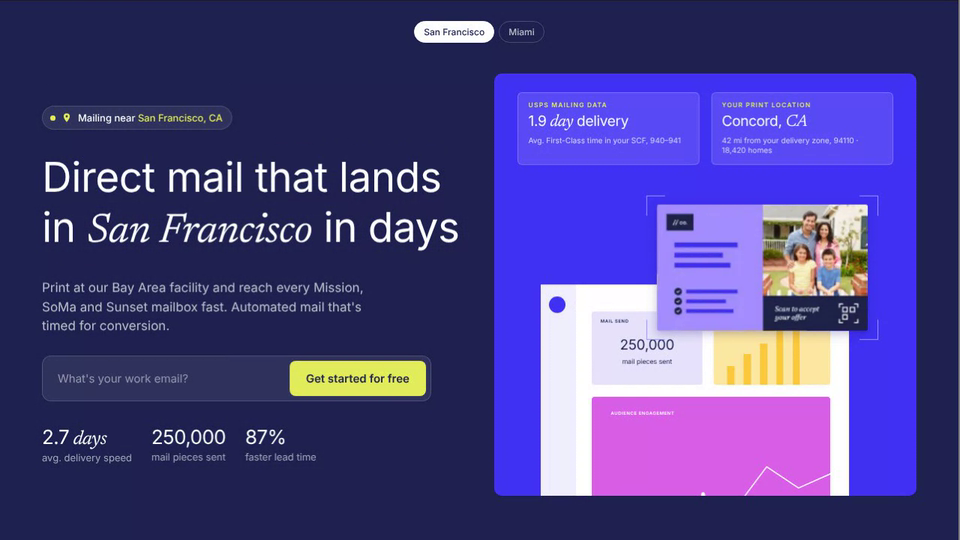
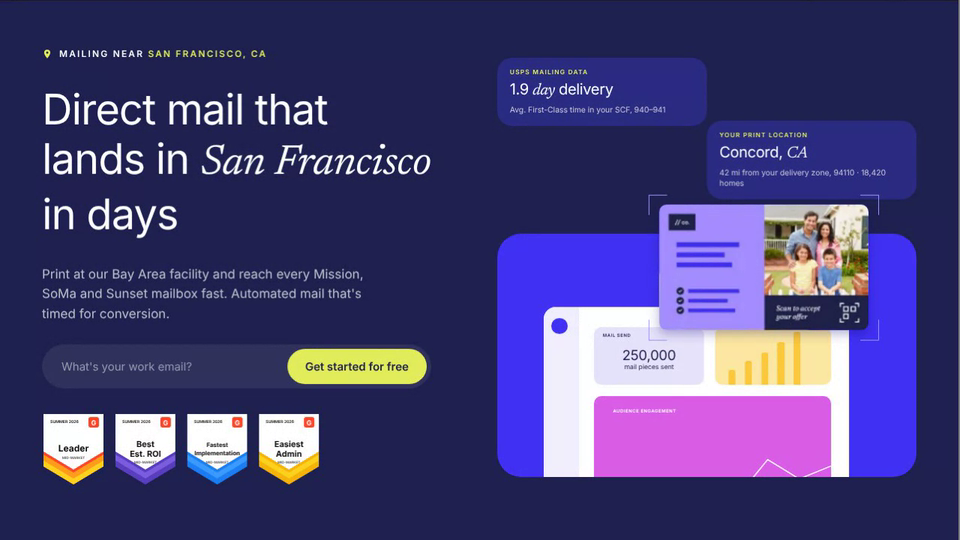
Location Hero: rounder, offset blurbs, shorter purple box, G2 badges, 3 line title, switcher in nav
Claude-Session: https://claude.ai/code/session_01AHeBdxeACcd88pkrxSw1Hy

diff --git a/location-hero/index.html b/location-hero/index.html
@@ -5,9 +5,9 @@
 <meta name="viewport" content="width=device-width,initial-scale=1">
 <title>Location Hero</title>
 <link rel="preconnect" href="https://fonts.googleapis.com">
-<link href="https://fonts.googleapis.com/css2?family=Inter:wght@400;500;600&family=Newsreader:ital,wght@1,400&display=swap" rel="stylesheet">
+<link href="https://fonts.googleapis.com/css2?family=Inter:wght@400;500;600;700&family=Newsreader:ital,wght@1,400&display=swap" rel="stylesheet">
 <style>
-:root{--ink:#1f2250;--deep:#171a42;--purple:#4233f4;--lav:#a393f5;--lav2:#e6e3fb;--lime:#e4ee5c;--pink:#d95fe8;--yel:#fde8a1;--yel2:#fbc93d;--w:#fff;
+:root{--ink:#1f2250;--deep:#171a42;--card:#2b2d83;--purple:#4233f4;--lav2:#e6e3fb;--lime:#e4ee5c;--pink:#d95fe8;--yel:#fde8a1;--yel2:#fbc93d;
 --sans:"Inter","Helvetica Neue",Helvetica,Arial,sans-serif;--serif:"Newsreader",Georgia,"Times New Roman",serif}
 *{box-sizing:border-box;margin:0}
 html,body{height:100%}
@@ -15,113 +15,109 @@ body{background:var(--ink);color:#fff;font-family:var(--sans);-webkit-font-smoot
 nav.back{flex:none;display:flex;align-items:center;gap:8px;height:49px;padding:0 20px;background:#000;border-bottom:1px solid #1c1c1c;font:400 13px/1.35 var(--sans);white-space:nowrap;overflow:hidden}
 nav.back a{color:#8d8d8d;text-decoration:none}nav.back a:hover,nav.back a:focus-visible{color:#fff;text-decoration:underline;text-underline-offset:3px}
 nav.back span{color:#6e6e6e}nav.back b{font-weight:500;color:#fff;overflow:hidden;text-overflow:ellipsis}
-@media(max-width:640px){nav.back{padding:0 16px}}
-.top{display:flex;justify-content:center;gap:16px;align-items:center;padding:20px 56px 0;height:62px}
-.logo{font:700 28px/1 var(--sans);letter-spacing:-.04em}
-.top a{color:#fff;font-size:14px;font-weight:500;text-decoration:none;opacity:.85}
-.hero{flex:1;display:grid;grid-template-columns:minmax(0,1fr) minmax(0,1fr);gap:40px;align-items:center;padding:8px 56px 32px;max-width:1360px;width:100%;margin:0 auto}
-.chip{display:inline-flex;align-items:center;gap:8px;font-size:13px;font-weight:500;padding:7px 12px 7px 10px;border-radius:99px;background:rgba(255,255,255,.08);border:1px solid rgba(255,255,255,.14)}
+.tog{margin-left:auto;display:flex;gap:6px;flex:none}
+.tog button{font:500 12px var(--sans);color:rgba(255,255,255,.7);background:none;border:1px solid rgba(255,255,255,.22);border-radius:99px;padding:6px 13px;cursor:pointer}
+.tog button.on{background:#fff;color:var(--ink);border-color:#fff}
+@media(max-width:640px){nav.back{padding:0 16px}nav.back .x{display:none}}
+.hero{flex:1;display:grid;grid-template-columns:minmax(0,1fr) minmax(0,1fr);gap:48px;align-items:center;padding:28px 56px 36px;max-width:1360px;width:100%;margin:0 auto}
+.chip{display:inline-flex;align-items:center;gap:9px;font-size:12px;font-weight:600;letter-spacing:.18em;text-transform:uppercase}
 .chip svg{width:14px;height:14px;fill:var(--lime)}
 .chip em{font-style:normal;color:var(--lime)}
-.chip .dot{width:7px;height:7px;border-radius:50%;background:var(--lime);box-shadow:0 0 0 0 rgba(228,238,92,.6);animation:pulse 2s infinite}
-@keyframes pulse{70%{box-shadow:0 0 0 7px rgba(228,238,92,0)}100%{box-shadow:0 0 0 0 rgba(228,238,92,0)}}
-h1{font-weight:400;font-size:clamp(34px,4.3vw,58px);line-height:1.22;letter-spacing:-.01em;margin:30px 0 28px}
+h1{font-weight:400;font-size:clamp(34px,4.4vw,58px);line-height:1.18;letter-spacing:-.02em;margin:30px 0 34px;white-space:nowrap}
 h1 i{font-family:var(--serif);font-style:italic;letter-spacing:-.01em}
 .sw{display:inline-block;transition:opacity .35s,transform .35s,filter .35s}
 .sw.out{opacity:0;transform:translateY(10px);filter:blur(6px)}
-.sub{font-size:17px;line-height:1.5;color:rgba(255,255,255,.72);max-width:470px;min-height:76px}
-.form{display:flex;margin-top:26px;max-width:520px;padding:6px;border-radius:12px;background:rgba(255,255,255,.08);border:1px solid rgba(255,255,255,.16)}
-.form input{flex:1;min-width:0;background:none;border:0;outline:0;color:#fff;font:400 15px var(--sans);padding:0 14px}
+.sub{font-size:17px;line-height:1.55;color:rgba(255,255,255,.72);max-width:470px;min-height:78px}
+.form{display:flex;margin-top:28px;max-width:520px;padding:6px;border-radius:99px;background:rgba(255,255,255,.08)}
+.form input{flex:1;min-width:0;background:none;border:0;outline:0;color:#fff;font:400 15px var(--sans);padding:0 20px}
 .form input::placeholder{color:rgba(255,255,255,.5)}
-.form button{border:0;background:var(--lime);color:var(--ink);font:600 15px var(--sans);padding:14px 22px;border-radius:8px;cursor:pointer;white-space:nowrap}
+.form button{border:0;background:var(--lime);color:var(--ink);font:600 15px var(--sans);padding:14px 24px;border-radius:99px;cursor:pointer;white-space:nowrap}
 .form button:hover{filter:brightness(1.06)}
-.proof{display:flex;gap:26px;margin-top:34px;font-size:13px;color:rgba(255,255,255,.6)}
-.proof b{display:block;font:400 26px/1.1 var(--sans);color:#fff;letter-spacing:-.02em;margin-bottom:3px}
-.proof b i{font:italic 400 26px var(--serif)}
-.tog{display:flex;gap:6px}
-.tog button{font:500 12px var(--sans);color:rgba(255,255,255,.7);background:none;border:1px solid rgba(255,255,255,.2);border-radius:99px;padding:6px 12px;cursor:pointer}
-.tog button.on{background:#fff;color:var(--ink);border-color:#fff}
+.g2{display:flex;gap:12px;margin-top:32px}
+.g2 svg{width:84px;height:auto;display:block}
 
 /* illustration */
-.stage{position:relative;background:var(--purple);border-radius:10px;aspect-ratio:560/560;width:100%;max-width:600px;justify-self:end;overflow:hidden;container-type:inline-size}
-.art{position:absolute;inset:0;transform-origin:0 0}
-.blurbs{position:absolute;left:5.5%;right:5.5%;top:4.5%;display:grid;grid-template-columns:1fr 1fr;gap:3%}
-.bl{background:rgba(255,255,255,.12);border:1px solid rgba(255,255,255,.22);border-radius:6px;padding:2cqw 2.4cqw;color:#fff;transition:opacity .35s,transform .35s,filter .35s}
+.stage{position:relative;aspect-ratio:1/1;width:100%;max-width:600px;justify-self:end;container-type:inline-size}
+.blurbs div.bl{position:absolute;width:50%;background:var(--card);border-radius:20px;padding:2.6cqw 3cqw;color:#fff;transition:opacity .35s,transform .35s,filter .35s}
+#b1{left:0;top:0}#b2{right:0;top:15%}
 .bl.out{opacity:0;transform:translateY(8px);filter:blur(5px)}
-.bl small{display:block;font:600 1.5cqw/1 var(--sans);letter-spacing:.14em;text-transform:uppercase;color:var(--lime);margin-bottom:1.2cqw}
-.bl strong{display:block;font:400 3.4cqw/1.1 var(--sans);letter-spacing:-.02em}
-.bl strong i{font:italic 400 3.9cqw var(--serif)}
-.bl p{font:400 1.8cqw/1.35 var(--sans);color:rgba(255,255,255,.78);margin-top:1.2cqw}
-.plat{position:absolute;left:11%;top:50%;width:73%;height:58%;background:#fff;border-radius:6px 6px 0 0}
-.side{position:absolute;left:0;top:0;bottom:0;width:11.5%;background:#f1effd}
+.bl small{display:block;font:600 1.5cqw/1 var(--sans);letter-spacing:.14em;text-transform:uppercase;color:var(--lime);margin-bottom:1.4cqw}
+.bl strong{display:block;font:400 3.6cqw/1.1 var(--sans);letter-spacing:-.02em}
+.bl strong i{font:italic 400 3.8cqw var(--serif)}
+.bl p{font:400 1.85cqw/1.4 var(--sans);color:rgba(255,255,255,.75);margin-top:1.2cqw}
+.box{position:absolute;left:0;right:0;top:42%;bottom:0;background:var(--purple);border-radius:32px;overflow:hidden}
+.plat{position:absolute;left:11%;top:30%;width:73%;height:92%;background:#fff;border-radius:16px 16px 0 0}
+.side{position:absolute;left:0;top:0;bottom:0;width:11.5%;background:#f1effd;border-radius:16px 0 0 0}
 .side i{position:absolute;left:23%;top:5%;width:46%;aspect-ratio:1;background:var(--purple);border-radius:50%}
-.t{position:absolute;border-radius:4px}
-.t1{left:16.5%;top:11%;width:36%;height:30%;background:var(--lav2)}
+.t{position:absolute;border-radius:10px}
+.t1{left:16.5%;top:9%;width:36%;height:26%;background:var(--lav2)}
 .t1 small,.t3 small{position:absolute;left:8%;top:9%;font:600 1.05cqw var(--sans);letter-spacing:.1em;color:#2a2b5c}
 .t1 b{position:absolute;left:0;right:0;top:34%;text-align:center;font:400 3.3cqw var(--sans);letter-spacing:-.01em;color:var(--ink)}
 .t1 span{position:absolute;left:0;right:0;top:63%;text-align:center;font:400 1.55cqw var(--sans);color:var(--ink)}
-.t2{left:56%;top:11%;width:38%;height:30%;background:var(--yel)}
-.t2 i{position:absolute;bottom:0;width:6%;background:var(--yel2)}
-.t3{left:16.5%;top:46%;width:77.5%;height:60%;background:var(--pink)}
+.t2{left:56%;top:9%;width:38%;height:26%;background:var(--yel)}
+.t2 i{position:absolute;bottom:0;width:6%;background:var(--yel2);border-radius:3px 3px 0 0}
+.t3{left:16.5%;top:40%;width:77.5%;height:60%;background:var(--pink)}
 .t3 svg{position:absolute;left:0;bottom:0;width:100%;height:80%}
-
-.mail{position:absolute;left:38.5%;top:31%;width:50%;aspect-ratio:1.665;display:flex;border-radius:3px;overflow:hidden;box-shadow:0 .6cqw 2cqw rgba(20,10,120,.25)}
+.mail{position:absolute;left:38.5%;top:35%;width:50%;aspect-ratio:1.665;border-radius:10px;overflow:hidden;box-shadow:0 .8cqw 2.4cqw rgba(20,10,120,.3)}
 .mail img{display:block;width:100%;height:100%;object-fit:cover}
-.crop{position:absolute;left:38.5%;top:31%;width:50%;aspect-ratio:1.665;pointer-events:none}
-.crop:before{content:"";position:absolute;inset:-7% -5%;background:linear-gradient(#9d95ff,#9d95ff) 0 0/8% 1px,linear-gradient(#9d95ff,#9d95ff) 0 0/1px 14%,linear-gradient(#9d95ff,#9d95ff) 100% 0/8% 1px,linear-gradient(#9d95ff,#9d95ff) 100% 0/1px 14%,linear-gradient(#9d95ff,#9d95ff) 0 100%/8% 1px,linear-gradient(#9d95ff,#9d95ff) 0 100%/1px 14%,linear-gradient(#9d95ff,#9d95ff) 100% 100%/8% 1px,linear-gradient(#9d95ff,#9d95ff) 100% 100%/1px 14%;background-repeat:no-repeat}
-
-@media(max-width:900px){.hero{grid-template-columns:1fr;padding:8px 20px 28px}.top{padding:20px 20px 0}.stage{justify-self:center}.sub{min-height:0}}
-@media(prefers-reduced-motion:reduce){.sw,.bl.chip .dot{animation:none}}
+.crop{position:absolute;left:38.5%;top:35%;width:50%;aspect-ratio:1.665;pointer-events:none}
+.crop:before{content:"";position:absolute;inset:-8% -5%;background:linear-gradient(#9d95ff,#9d95ff) 0 0/8% 1px,linear-gradient(#9d95ff,#9d95ff) 0 0/1px 14%,linear-gradient(#9d95ff,#9d95ff) 100% 0/8% 1px,linear-gradient(#9d95ff,#9d95ff) 100% 0/1px 14%,linear-gradient(#9d95ff,#9d95ff) 0 100%/8% 1px,linear-gradient(#9d95ff,#9d95ff) 0 100%/1px 14%,linear-gradient(#9d95ff,#9d95ff) 100% 100%/8% 1px,linear-gradient(#9d95ff,#9d95ff) 100% 100%/1px 14%;background-repeat:no-repeat}
+@media(max-width:900px){.hero{grid-template-columns:1fr;padding:24px 20px 28px}.stage{justify-self:center}.sub{min-height:0}h1{white-space:normal}}
+@media(prefers-reduced-motion:reduce){.sw,.bl{transition:none}}
 </style>
 </head>
 <body>
-<nav class="back" aria-label="Sandbox"><a href="../">Sandbox</a><span>/</span><a href="../">Back to all projects</a><span>/</span><b>Location Hero</b></nav>
-<header class="top"><div class="tog" role="group" aria-label="Preview location"><button class="on" data-i="0">San Francisco</button><button data-i="1">Miami</button></div></header>
+<nav class="back" aria-label="Sandbox"><a href="../">Sandbox</a><span class="x">/</span><a class="x" href="../">Back to all projects</a><span>/</span><b>Location Hero</b>
+<div class="tog" role="group" aria-label="Preview location"><button class="on" data-i="0">San Francisco</button><button data-i="1">Miami</button></div></nav>
 <main class="hero">
   <section>
-    <div class="chip"><span class="dot"></span><svg viewBox="0 0 24 24"><path d="M12 2a7 7 0 0 0-7 7c0 5.2 7 13 7 13s7-7.8 7-13a7 7 0 0 0-7-7zm0 9.5a2.5 2.5 0 1 1 0-5 2.5 2.5 0 0 1 0 5z"/></svg><span>Mailing near <em class="sw" id="city">San Francisco, CA</em></span></div>
-    <h1><span class="sw" id="h1">Direct mail that lands in <i>San Francisco</i> in days</span></h1>
-    <p class="sub sw" id="sub">Print at our Bay Area facility and hit every Mission, SoMa and Sunset mailbox fast. Automated mail that's timed for conversion.</p>
+    <div class="chip"><svg viewBox="0 0 24 24"><path d="M12 2a7 7 0 0 0-7 7c0 5.2 7 13 7 13s7-7.8 7-13a7 7 0 0 0-7-7zm0 9.5a2.5 2.5 0 1 1 0-5 2.5 2.5 0 0 1 0 5z"/></svg><span>Mailing near <em class="sw" id="city">San Francisco, CA</em></span></div>
+    <h1><span class="sw" id="h1">Direct mail that<br>lands in <i>San Francisco</i><br>in days</span></h1>
+    <p class="sub sw" id="sub">Print at our Bay Area facility and reach every Mission, SoMa and Sunset mailbox fast. Automated mail that's timed for conversion.</p>
     <form class="form" onsubmit="return false"><input type="email" placeholder="What's your work email?" aria-label="Work email"><button>Get started for free</button></form>
-    <div class="proof"><div><b>2.7<i> days</i></b>avg. delivery speed</div><div><b>250,000</b>mail pieces sent</div><div><b>87%</b>faster lead time</div></div>
+    <div class="g2" id="g2" aria-label="G2 awards"></div>
   </section>
 
   <div class="stage" id="stage">
     <div class="blurbs">
-      <div class="bl sw0" id="b1"><small id="b1k">USPS mailing data</small><strong id="b1h">1.9 <i>day</i> delivery</strong><p id="b1p">Avg. First-Class time in your SCF, 940–941</p></div>
-      <div class="bl sw0" id="b2"><small id="b2k">Your print location</small><strong id="b2h">Concord, <i>CA</i></strong><p id="b2p">42 mi from your delivery zone, 94110 · 18,420 homes</p></div>
+      <div class="bl" id="b1"><small id="b1k"></small><strong id="b1h"></strong><p id="b1p"></p></div>
+      <div class="bl" id="b2"><small id="b2k"></small><strong id="b2h"></strong><p id="b2p"></p></div>
     </div>
-    <div class="plat">
+    <div class="box"><div class="plat">
       <div class="side"><i></i></div>
       <div class="t t1"><small>MAIL SEND</small><b>250,000</b><span>mail pieces sent</span></div>
       <div class="t t2"><i style="left:12%;height:26%"></i><i style="left:26%;height:42%"></i><i style="left:40%;height:56%"></i><i style="left:54%;height:74%"></i><i style="left:68%;height:92%"></i></div>
       <div class="t t3"><small style="color:#fff">AUDIENCE ENGAGEMENT</small><svg viewBox="0 0 300 100" preserveAspectRatio="none"><polyline fill="none" stroke="#fff" stroke-width="1.5" vector-effect="non-scaling-stroke" points="20,92 60,78 100,84 140,58 180,70 220,34 260,52 300,40"/><g fill="#fff"><circle cx="60" cy="78" r="2.5"/><circle cx="100" cy="84" r="2.5"/><circle cx="140" cy="58" r="2.5"/><circle cx="180" cy="70" r="2.5"/></g></svg></div>
-    </div>
+    </div></div>
     <div class="mail"><img src="mailpiece.png" alt="Direct mail postcard with a family in front of their home and a scan to accept your offer code"></div>
     <div class="crop"></div>
   </div>
 </main>
 <script>
 const CITIES=[
- {city:'San Francisco, CA',h:'Direct mail that lands in <i>San Francisco</i> in days',sub:"Print at our Bay Area facility and reach every Mission, SoMa and Sunset mailbox fast. Automated mail that's timed for conversion.",
+ {city:'San Francisco, CA',h:'Direct mail that<br>lands in <i>San Francisco</i><br>in days',sub:"Print at our Bay Area facility and reach every Mission, SoMa and Sunset mailbox fast. Automated mail that's timed for conversion.",
   b1:['USPS mailing data','1.9 <i>day</i> delivery','Avg. First-Class time in your SCF, 940–941'],
   b2:['Your print location','Concord, <i>CA</i>','42 mi from your delivery zone, 94110 · 18,420 homes']},
- {city:'Miami, FL',h:'Direct mail that lands in <i>Miami</i> in days',sub:"Print at our Florida facility and reach every Brickell, Wynwood and Coral Gables mailbox fast. Automated mail that's timed for conversion.",
+ {city:'Miami, FL',h:'Direct mail that<br>lands in <i>Miami</i><br>in days',sub:"Print at our Florida facility and reach every Brickell, Wynwood and Coral Gables mailbox fast. Automated mail that's timed for conversion.",
   b1:['USPS mailing data','2.3 <i>day</i> delivery','Avg. First-Class time in your SCF, 331–332'],
   b2:['Your print location','Orlando, <i>FL</i>','235 mi from your delivery zone, 33131 · 24,760 homes']}];
 const $=id=>document.getElementById(id);
+// G2 style badges
+const BADGES=[['Leader','','#ff492c','#ff9d1c','#ffd21f'],['Best','Est. ROI','#5a3fc0','#7c5fe0','#5a3fc0'],['Fastest','Implementation','#1c7ff2','#3b9bff','#1c7ff2'],['Easiest','Admin','#f5b50a','#ffd21f','#f5b50a']];
+$('g2').innerHTML=BADGES.map(([a,b,c1,c2,c3],n)=>{
+ const t=b?`<text x="42" y="46" text-anchor="middle" font-size="${b.length>8?8:11}" font-weight="700">${a}</text><text x="42" y="${b.length>8?57:59}" text-anchor="middle" font-size="${b.length>8?8:11}" font-weight="700">${b}</text>`:`<text x="42" y="52" text-anchor="middle" font-size="12" font-weight="700">${a}</text>`;
+ return `<svg viewBox="0 0 84 100" role="img" aria-label="G2 ${a} ${b}"><path d="M2 2h80v70L42 96 2 72z" fill="${c3}"/><path d="M2 2h80v62L42 88 2 64z" fill="${c2}"/><path d="M2 2h80v54L42 80 2 56z" fill="${c1}"/><path d="M2 2h80v50L42 76 2 52z" fill="#fff"/><g font-family="Inter,Arial,sans-serif" fill="#111"><text x="30" y="14" text-anchor="middle" font-size="5.2" font-weight="600">SUMMER 2026</text>${t}<text x="42" y="${b?68:62}" text-anchor="middle" font-size="4.6" font-weight="600" fill="#555">MID-MARKET</text></g><rect x="62" y="6" width="14" height="14" rx="3" fill="#ff492c"/><text x="69" y="16.5" text-anchor="middle" font-family="Inter,Arial" font-size="9" font-weight="700" fill="#fff">G</text></svg>`}).join('');
 const sw=['city','h1','sub','b1','b2'];
 const lp={i:0,timer:null,
  apply(i){const c=CITIES[i];$('city').textContent=c.city;$('h1').innerHTML=c.h;$('sub').textContent=c.sub;
   [['b1',c.b1],['b2',c.b2]].forEach(([k,v])=>{$(k+'k').textContent=v[0];$(k+'h').innerHTML=v[1];$(k+'p').textContent=v[2]});
-  
   document.querySelectorAll('.tog button').forEach((b,j)=>b.classList.toggle('on',j===i));},
- set(i){if(i===this.i&&this.ready)return;this.i=i;this.ready=true;sw.forEach(k=>$(k).classList.add('out'));
+ set(i){if(i===this.i)return;this.i=i;sw.forEach(k=>$(k).classList.add('out'));
   setTimeout(()=>{this.apply(i);sw.forEach(k=>$(k).classList.remove('out'))},350);},
  stop(){clearInterval(this.timer);this.timer=null},
  auto(){this.stop();this.timer=setInterval(()=>this.set(1-this.i),3400)}};
 document.querySelectorAll('.tog button').forEach(b=>b.onclick=()=>{lp.stop();lp.set(+b.dataset.i)});
-lp.apply(0);lp.ready=true;
+lp.apply(0);
 if(!new URLSearchParams(location.search).has('hold'))lp.auto();
 </script>
 </body>
